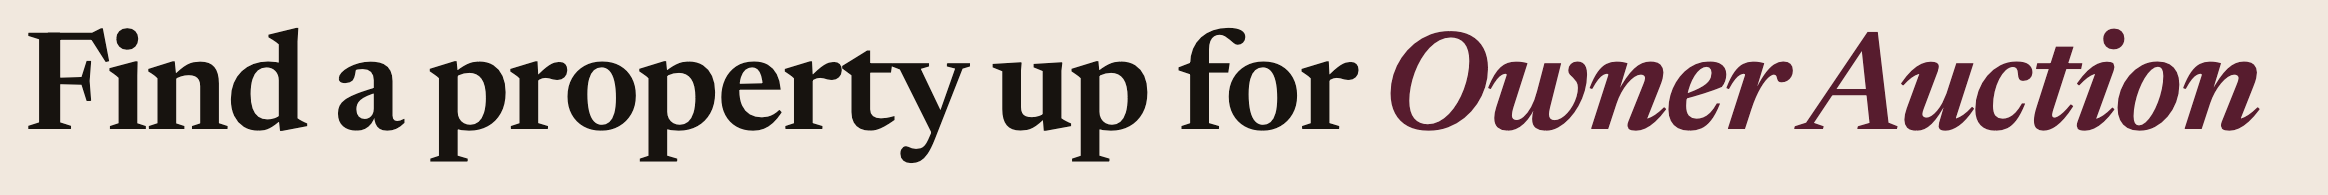
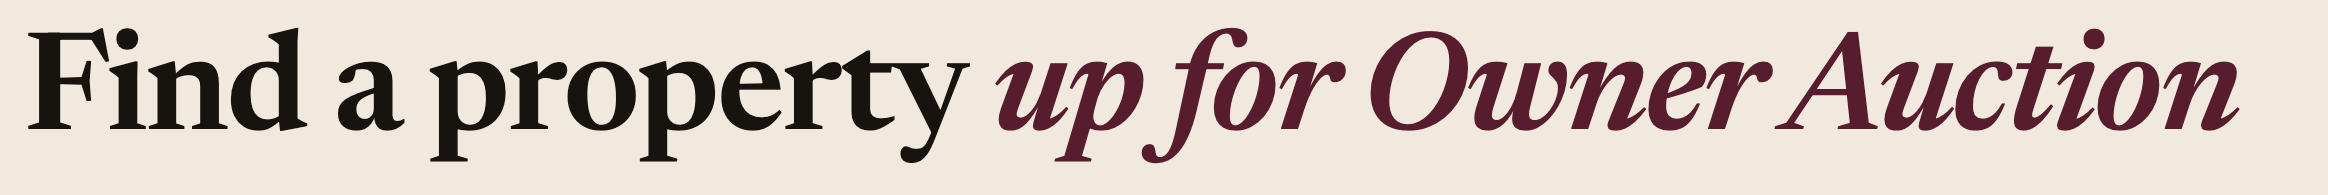
Revert "Owner Auction search heading: only the product name takes the accent"
This reverts the copy change in b57d0e1. "up for Owner Auction" is the accented
phrase again, which also puts this heading back in step with /tender's "open for
e-tender" — the divergence I flagged when making the change is gone with it.

Bryan took it back on sight. Reverted whole rather than argued: my case for
accenting the product name alone was reasonable and his eye is the one that
decides.

Changed region(s): [[0.4021, 0.1538, 0.9897, 0.8308]]

diff --git a/src/routes/owner-auction/index.tsx b/src/routes/owner-auction/index.tsx
@@ -425,7 +425,7 @@ function OwnerAuction() {
                   is the one that gets to be loud. */}
             <div className="search-intro">
               <h2 id="property-search-title">
-                Find a property up for <span className="hl">Owner Auction</span>
+                Find a property <span className="hl">up for Owner Auction</span>
               </h2>
             </div>
             <form
